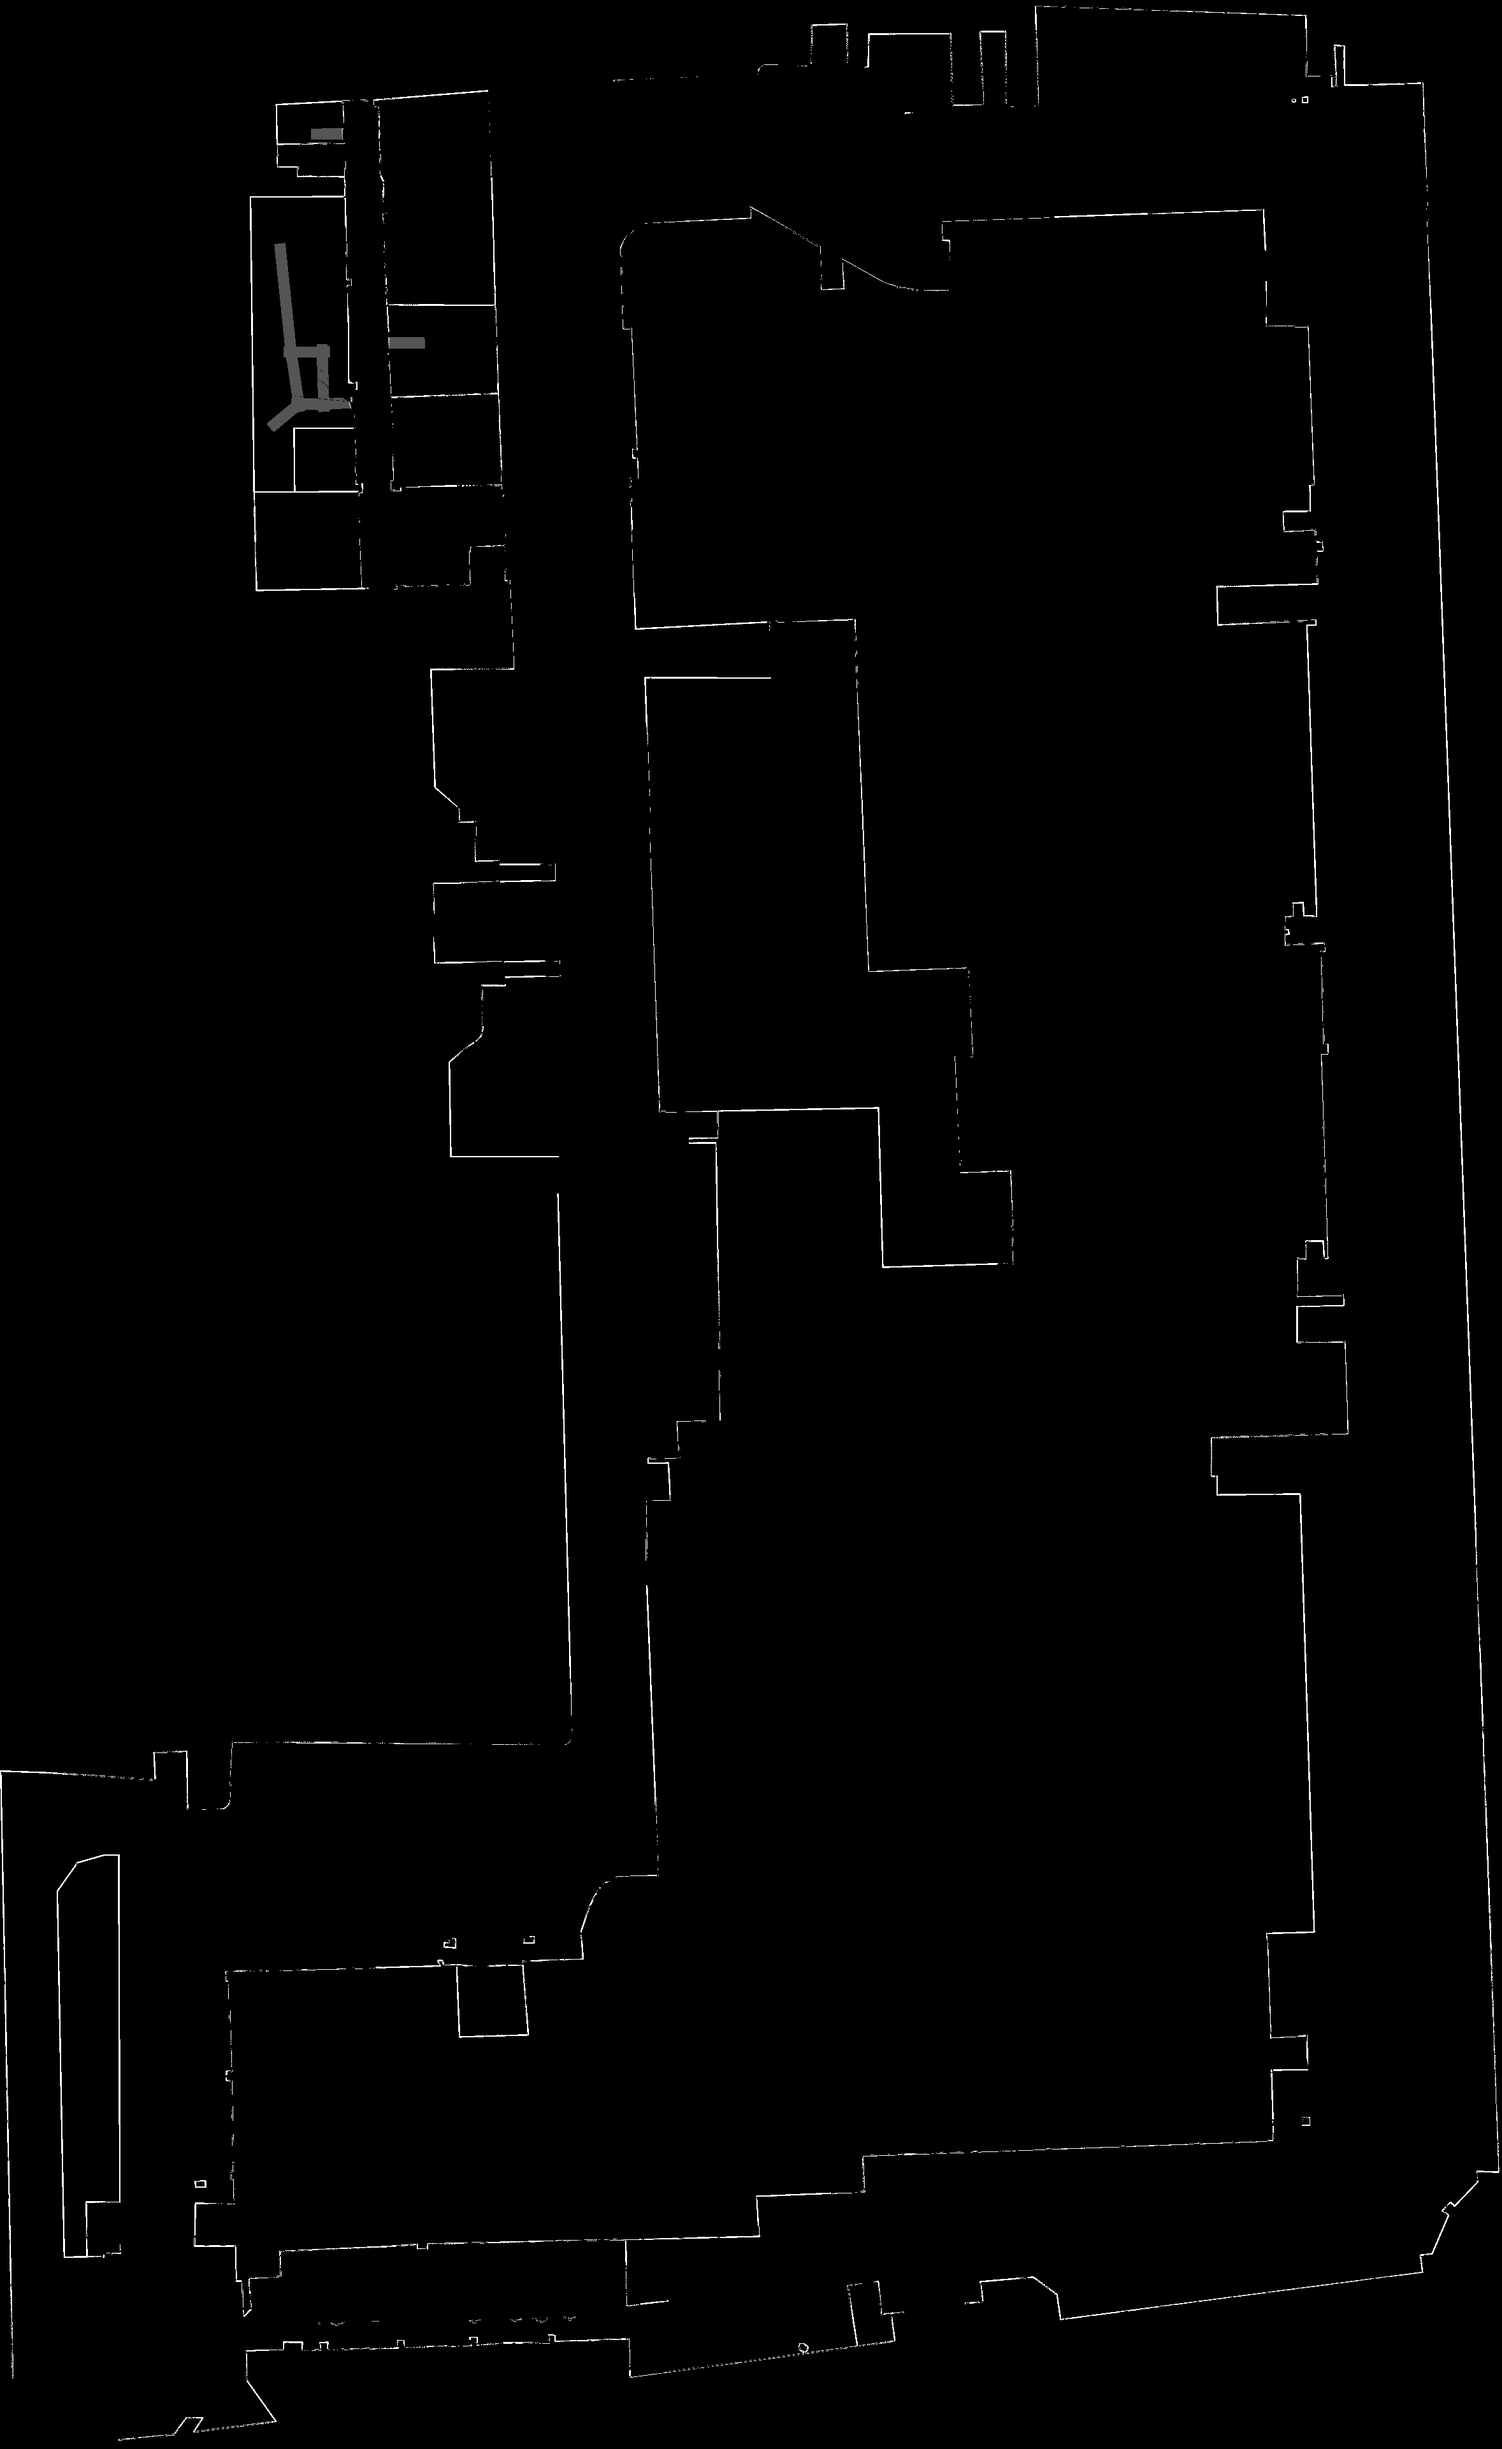
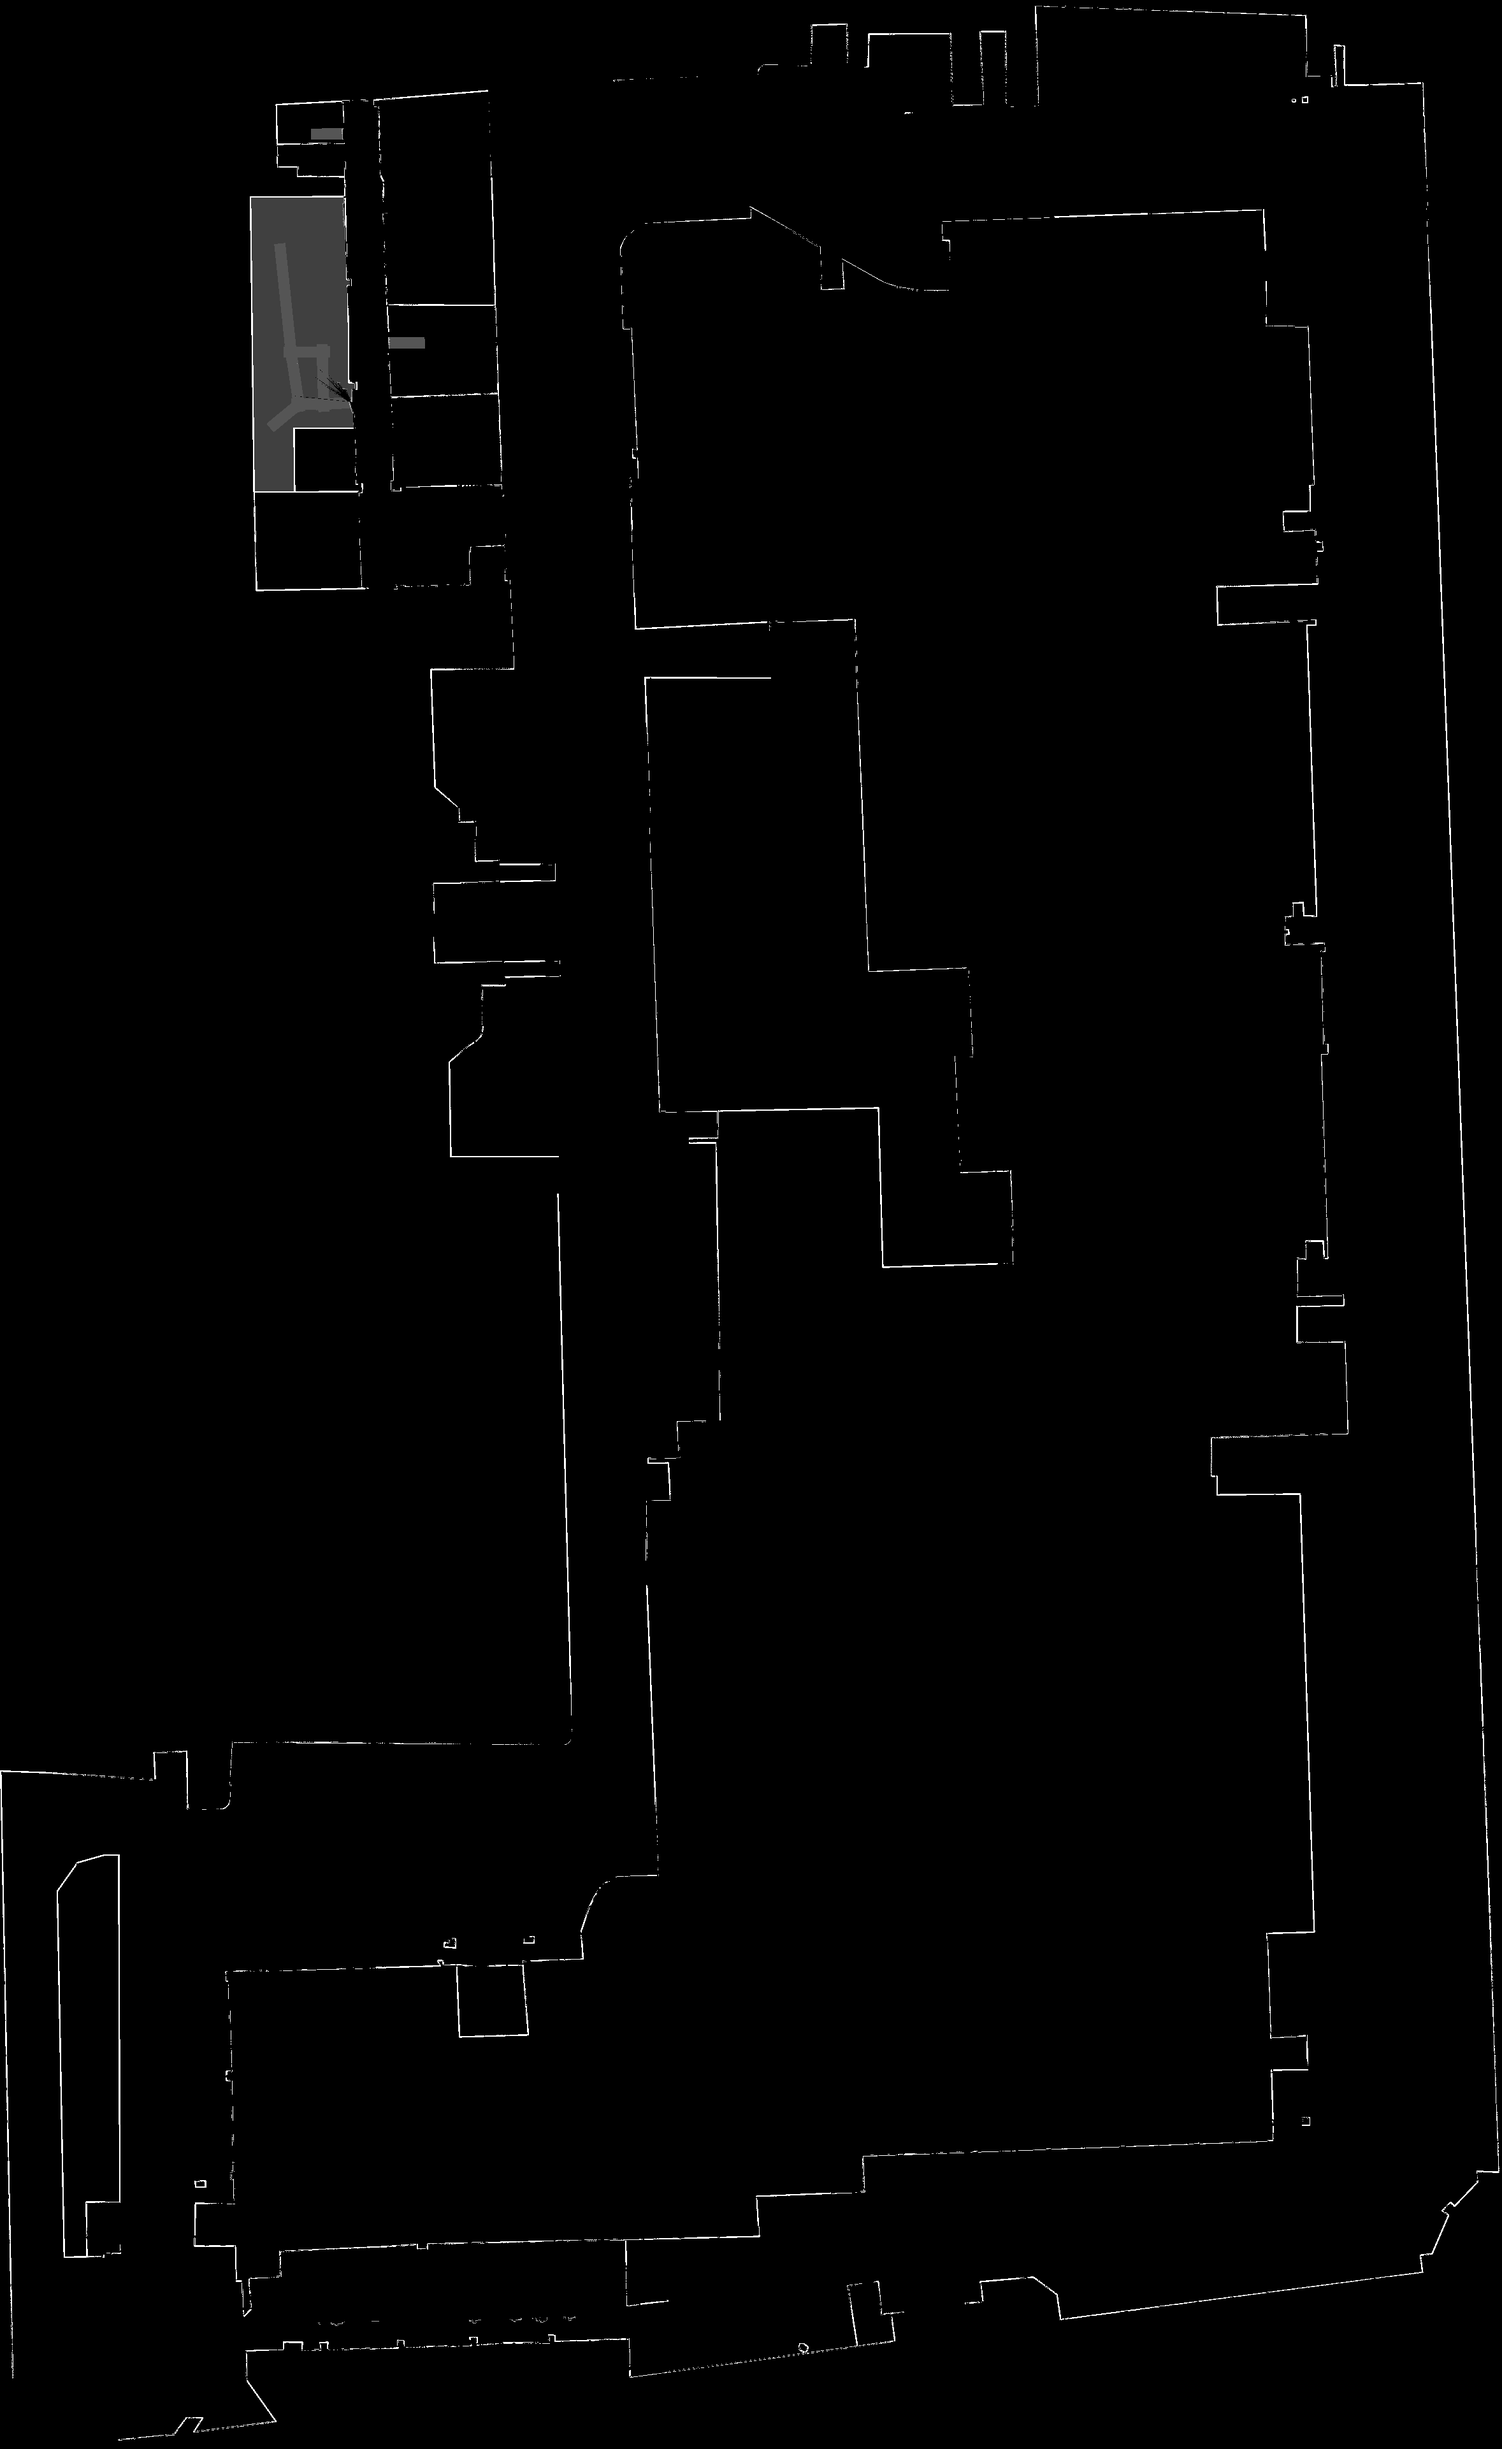
fix: rebuild brin_0 known-area maps in integration snapshots

Changed region(s): [[0.1549, 0.0625, 0.2478, 0.2186]]

diff --git a/IMPLEMENTATION_STATUS.md b/IMPLEMENTATION_STATUS.md
@@ -1,3 +1,61 @@
+# Rebuild correction map `brin_0` — 27 Oktober 2026
+
+File yang ditunjuk pengguna berada di `laptop/src/brin_rmf_maps`, sedangkan
+correction sebelumnya hanya dibuat di workspace asal `/mnt/UbuntuData/rmf_ws`.
+Snapshot repository ini masih memuat policy lama dan correction hash
+`c73927fc...`. Policy kedua snapshot lokal (`laptop` dan `husky`) sekarang
+memakai known-area polygon lantai 29 untuk `brin_0`, sama dengan
+`banyak_simpangan`. Kedua profil diregenerasi dan divalidasi pada masing-masing
+snapshot. Building YAML, reference PNG, graph, sensor dan parameter robot
+tidak diubah. Report banyak-simpangan hanya berubah pada hash shared policy.
+
+Hasil: polygon kiri atas berisi 62.120 sel, tidak menyisakan sel unknown,
+semua sel non-dinding free dan dinding Traffic Editor tetap occupied.
+Tambahan correction dari map lama adalah 50.488 unknown-to-free dan 184
+reference-occupied-to-free di area yang disetujui. Occupancy dan correction
+mask kedua snapshot byte-identik dengan hasil workspace asal dan file install
[2 lines of base64/hex data omitted]
+Empat validasi profil/snapshot exit 0: 294 lane lolos, nol blocked lane,
+mismatch mask, unexpected pixel atau dinding tidak occupied; reachability utuh.
+
+Perintah generasi, dari root repository, untuk setiap `target=laptop|husky`
+dan `profile=brin_0|banyak_simpangan` (`graph=1.yaml` atau
+`banyak_simpangan.yaml` sesuai profil):
+
+```bash
+python3 "$target/src/brin_rmf_maps/tools/generate_nav2_occupancy.py" --package "$target/src/brin_rmf_maps" --nav2-config laptop/src/brin_husky_nav2/config/nav2.yaml --building "$profile.building.yaml" --graph "$graph" --output-prefix "$profile"
+python3 "$target/src/brin_rmf_maps/tools/validate_nav2_occupancy.py" --package "$target/src/brin_rmf_maps" --nav2-config laptop/src/brin_husky_nav2/config/nav2.yaml --building "$profile.building.yaml" --graph "$graph" --output-prefix "$profile"
+```
+
+Build/test dari `laptop/`, dengan overlay Humble, Clearpath, BRIN; environment
+`COLCON_HOME=$PWD/.colcon`, `ROS_LOG_DIR=$PWD/log/ros`,
+`PYTEST_DISABLE_PLUGIN_AUTOLOAD=1`, dan
+`COLCON_EXTENSION_BLOCKLIST=colcon_core.shell.ros_domain_id`:
+
+```bash
+colcon build --symlink-install --packages-select brin_rmf_maps --cmake-force-configure
+source install/local_setup.bash
+colcon test --packages-select brin_rmf_maps --event-handlers console_direct+
+colcon test-result --test-result-base build/brin_rmf_maps --verbose
+colcon test-result --verbose
+python3 -m pytest -q ../husky/src/brin_rmf_maps/test src/brin_husky_distributed/test/test_distributed.py --tb=short
+```
+
+Build berhasil; 21 test map laptop lolos, hasil colcon 22 test termasuk wrapper
+CTest, tanpa error/failure/skip. Tes map snapshot Husky dan resolusi profil
+distribusi pada laptop: 25 lolos. Digest `brin_0` source laptop, install laptop
+dan snapshot Husky cocok:
[1 lines of base64/hex data omitted]
+Digest banyak-simpangan tetap `20ec559a...`, sama dengan deployment sebelumnya.
+Log tersedia di `laptop/log/validation/map_correction_*`.
+
+Tidak ada SSH/deployment, restart proses aktif, goal, task atau uji gerak.
+Snapshot `husky/src` yang diperbarui belum diterapkan ke komputer robot;
+penggunaan profil `brin_0` pada kedua mesin memerlukan deployment map yang
+sama dan preflight ulang. Pembaruan ini menerima aset peta dan build lokal;
+penerimaan runtime/fisik di bawah tetap memiliki batas yang tercatat.
+
 # Status integrasi fisik — 21 Oktober 2026
 
 ## Pembaruan: source sudah dipush dan dideploy
